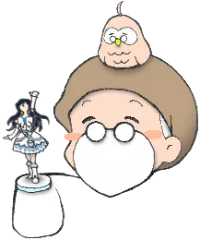
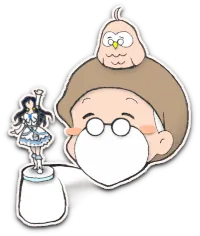
画像サイズの検証2

Changed region(s): [[0.0, 0.0, 0.99, 1.0]]

diff --git a/header.css b/header.css
@@ -27,11 +27,12 @@
     flex-direction: column;
     align-items:    center;
 
-    max-width: calc(10% + var(--画像サイズ, 4) * 0.25%);
+    max-width: calc(11% + var(--画像サイズ, 4) * 0.25%);
 }
 
 .📻 {
     cursor:     pointer;
+
     transition: scale  0.3s ease,
                 filter 1.0s ease; /* 消光用 */
 }
@@ -43,7 +44,7 @@
 
 .設定💬 {
     position: absolute;
-    top:      calc(46px + var(--画像サイズ, 4) * 1px); /* 位置 */
+    top:      calc(48px + var(--画像サイズ, 4) * 1px); /* 位置 */
     right:    0;
 
     width: 250px;

diff --git a/main.css b/main.css
@@ -80,7 +80,7 @@
     position:      relative;
     z-index:       1;
 
-    max-width:     calc( 25% + (var(--画像サイズ, 4) * 2%) + var(--サイズ, 0%)); /* 対話全体枠における横幅の割合 25～43% */
+    max-width:     calc( 30% + (var(--画像サイズ, 4) * 2%) + var(--サイズ, 0%)); /* 対話全体枠における横幅の割合 30～48% */
     margin-bottom: calc(-25px - var(--被り幅, 0px)); /* ふきだしへの被り幅 */
 
     /* 🔹登場前の位置 */

diff --git a/style.css b/style.css
@@ -133,7 +133,7 @@ b, em {
 
     margin: 0 auto;
 
-    max-width: calc(91% + var(--画像サイズ, 4) * 1%); /* 最大横幅 400px (画像は最大400pxで書き出しているから) */
+    max-width: calc(82% + var(--画像サイズ, 4) * 2%); /* 最大横幅 400px (画像は最大400pxで書き出しているから) */
 }
 
 
